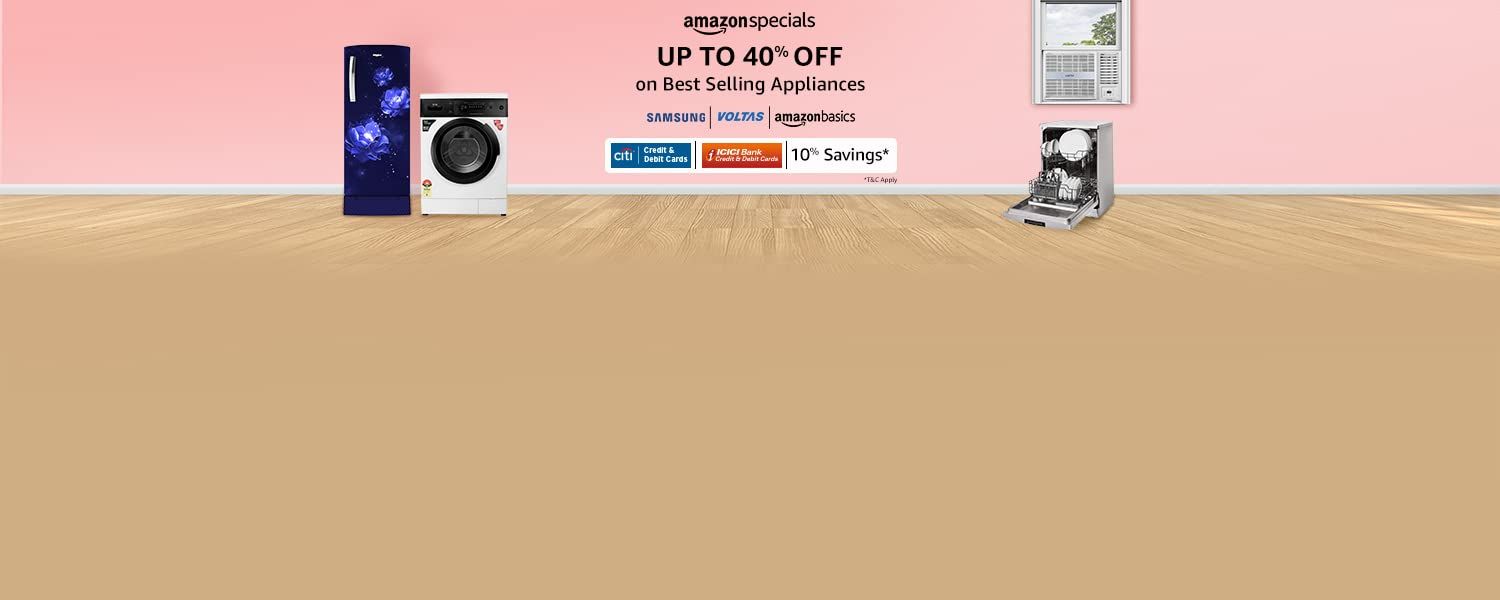
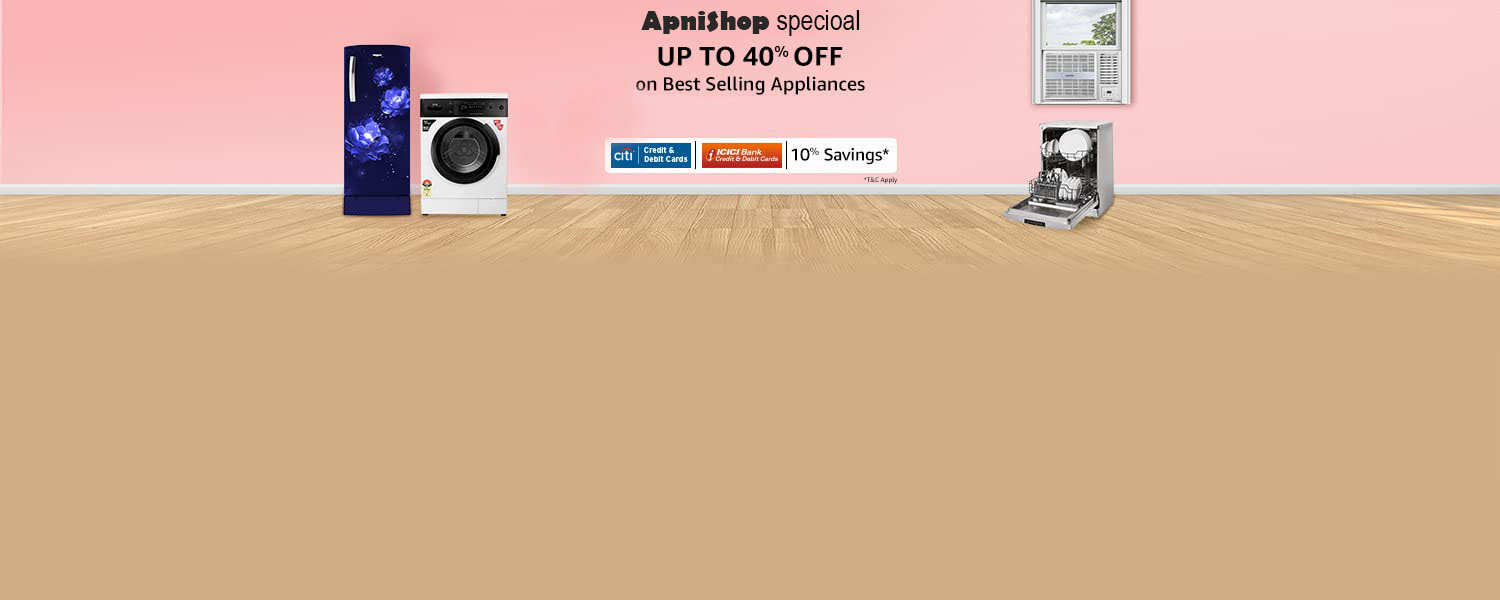
changed amazon to apnishop

Changed region(s): [[0.4293, 0.0, 0.5827, 0.06], [0.4293, 0.18, 0.5827, 0.21], [0.3987, 0.21, 0.4293, 0.27]]

diff --git a/public/js/bundle5.js b/public/js/bundle5.js
@@ -1,1 +1,1 @@
-(()=>{var e={9669:(e,t,r)=>{e.exports=r(1609)},5448:(e,t,r)=>{"use strict";var n=r(4867),o=r(6026),s=r(4372),i=r(5327),a=r(4097),c=r(4109),u=r(7985),f=r(5061);e.exports=function(e){return new Promise((function(t,r){var p=e.data,d=e.headers;n.isFormData(p)&&delete d["Content-Type"];var l=new XMLHttpRequest;if(e.auth){var h=e.auth.username||"",m=e.auth.password?unescape(encodeURIComponent(e.auth.password)):"";d.Authorization="Basic "+btoa(h+":"+m)}var v=a(e.baseURL,e.url);if(l.open(e.method.toUpperCase(),i(v,e.params,e.paramsSerializer),!0),l.timeout=e.timeout,l.onreadystatechange=function(){if(l&&4===l.readyState&&(0!==l.status||l.responseURL&&0===l.responseURL.indexOf("file:"))){var n="getAllResponseHeaders"in l?c(l.getAllResponseHeaders()):null,s={data:e.responseType&&"text"!==e.responseType?l.response:l.responseText,status:l.status,statusText:l.statusText,headers:n,config:e,request:l};o(t,r,s),l=null}},l.onabort=function(){l&&(r(f("Request aborted",e,"ECONNABORTED",l)),l=null)},l.onerror=function(){r(f("Network Error",e,null,l)),l=null},l.ontimeout=function(){var t="timeout of "+e.timeout+"ms exceeded";e.timeoutErrorMessage&&(t=e.timeoutErrorMessage),r(f(t,e,"ECONNABORTED",l)),l=null},n.isStandardBrowserEnv()){var y=(e.withCredentials||u(v))&&e.xsrfCookieName?s.read(e.xsrfCookieName):void 0;y&&(d[e.xsrfHeaderName]=y)}if("setRequestHeader"in l&&n.forEach(d,(function(e,t){void 0===p&&"content-type"===t.toLowerCase()?delete d[t]:l.setRequestHeader(t,e)})),n.isUndefined(e.withCredentials)||(l.withCredentials=!!e.withCredentials),e.responseType)try{l.responseType=e.responseType}catch(t){if("json"!==e.responseType)throw t}"function"==typeof e.onDownloadProgress&&l.addEventListener("progress",e.onDownloadProgress),"function"==typeof e.onUploadProgress&&l.upload&&l.upload.addEventListener("progress",e.onUploadProgress),e.cancelToken&&e.cancelToken.promise.then((function(e){l&&(l.abort(),r(e),l=null)})),p||(p=null),l.send(p)}))}},1609:(e,t,r)=>{"use strict";var n=r(4867),o=r(1849),s=r(321),i=r(7185);function a(e){var t=new s(e),r=o(s.prototype.request,t);return n.extend(r,s.prototype,t),n.extend(r,t),r}var c=a(r(5655));c.Axios=s,c.create=function(e){return a(i(c.defaults,e))},c.Cancel=r(5263),c.CancelToken=r(4972),c.isCancel=r(6502),c.all=function(e){return Promise.all(e)},c.spread=r(8713),c.isAxiosError=r(6268),e.exports=c,e.exports.default=c},5263:e=>{"use strict";function t(e){this.message=e}t.prototype.toString=function(){return"Cancel"+(this.message?": "+this.message:"")},t.prototype.__CANCEL__=!0,e.exports=t},4972:(e,t,r)=>{"use strict";var n=r(5263);function o(e){if("function"!=typeof e)throw new TypeError("executor must be a function.");var t;this.promise=new Promise((function(e){t=e}));var r=this;e((function(e){r.reason||(r.reason=new n(e),t(r.reason))}))}o.prototype.throwIfRequested=function(){if(this.reason)throw this.reason},o.source=function(){var e;return{token:new o((function(t){e=t})),cancel:e}},e.exports=o},6502:e=>{"use strict";e.exports=function(e){return!(!e||!e.__CANCEL__)}},321:(e,t,r)=>{"use strict";var n=r(4867),o=r(5327),s=r(782),i=r(3572),a=r(7185);function c(e){this.defaults=e,this.interceptors={request:new s,response:new s}}c.prototype.request=function(e){"string"==typeof e?(e=arguments[1]||{}).url=arguments[0]:e=e||{},(e=a(this.defaults,e)).method?e.method=e.method.toLowerCase():this.defaults.method?e.method=this.defaults.method.toLowerCase():e.method="get";var t=[i,void 0],r=Promise.resolve(e);for(this.interceptors.request.forEach((function(e){t.unshift(e.fulfilled,e.rejected)})),this.interceptors.response.forEach((function(e){t.push(e.fulfilled,e.rejected)}));t.length;)r=r.then(t.shift(),t.shift());return r},c.prototype.getUri=function(e){return e=a(this.defaults,e),o(e.url,e.params,e.paramsSerializer).replace(/^\?/,"")},n.forEach(["delete","get","head","options"],(function(e){c.prototype[e]=function(t,r){return this.request(a(r||{},{method:e,url:t,data:(r||{}).data}))}})),n.forEach(["post","put","patch"],(function(e){c.prototype[e]=function(t,r,n){return this.request(a(n||{},{method:e,url:t,data:r}))}})),e.exports=c},782:(e,t,r)=>{"use strict";var n=r(4867);function o(){this.handlers=[]}o.prototype.use=function(e,t){return this.handlers.push({fulfilled:e,rejected:t}),this.handlers.length-1},o.prototype.eject=function(e){this.handlers[e]&&(this.handlers[e]=null)},o.prototype.forEach=function(e){n.forEach(this.handlers,(function(t){null!==t&&e(t)}))},e.exports=o},4097:(e,t,r)=>{"use strict";var n=r(1793),o=r(7303);e.exports=function(e,t){return e&&!n(t)?o(e,t):t}},5061:(e,t,r)=>{"use strict";var n=r(481);e.exports=function(e,t,r,o,s){var i=new Error(e);return n(i,t,r,o,s)}},3572:(e,t,r)=>{"use strict";var n=r(4867),o=r(8527),s=r(6502),i=r(5655);function a(e){e.cancelToken&&e.cancelToken.throwIfRequested()}e.exports=function(e){return a(e),e.headers=e.headers||{},e.data=o(e.data,e.headers,e.transformRequest),e.headers=n.merge(e.headers.common||{},e.headers[e.method]||{},e.headers),n.forEach(["delete","get","head","post","put","patch","common"],(function(t){delete e.headers[t]})),(e.adapter||i.adapter)(e).then((function(t){return a(e),t.data=o(t.data,t.headers,e.transformResponse),t}),(function(t){return s(t)||(a(e),t&&t.response&&(t.response.data=o(t.response.data,t.response.headers,e.transformResponse))),Promise.reject(t)}))}},481:e=>{"use strict";e.exports=function(e,t,r,n,o){return e.config=t,r&&(e.code=r),e.request=n,e.response=o,e.isAxiosError=!0,e.toJSON=function(){return{message:this.message,name:this.name,description:this.description,number:this.number,fileName:this.fileName,lineNumber:this.lineNumber,columnNumber:this.columnNumber,stack:this.stack,config:this.config,code:this.code}},e}},7185:(e,t,r)=>{"use strict";var n=r(4867);e.exports=function(e,t){t=t||{};var r={},o=["url","method","data"],s=["headers","auth","proxy","params"],i=["baseURL","transformRequest","transformResponse","paramsSerializer","timeout","timeoutMessage","withCredentials","adapter","responseType","xsrfCookieName","xsrfHeaderName","onUploadProgress","onDownloadProgress","decompress","maxContentLength","maxBodyLength","maxRedirects","transport","httpAgent","httpsAgent","cancelToken","socketPath","responseEncoding"],a=["validateStatus"];function c(e,t){return n.isPlainObject(e)&&n.isPlainObject(t)?n.merge(e,t):n.isPlainObject(t)?n.merge({},t):n.isArray(t)?t.slice():t}function u(o){n.isUndefined(t[o])?n.isUndefined(e[o])||(r[o]=c(void 0,e[o])):r[o]=c(e[o],t[o])}n.forEach(o,(function(e){n.isUndefined(t[e])||(r[e]=c(void 0,t[e]))})),n.forEach(s,u),n.forEach(i,(function(o){n.isUndefined(t[o])?n.isUndefined(e[o])||(r[o]=c(void 0,e[o])):r[o]=c(void 0,t[o])})),n.forEach(a,(function(n){n in t?r[n]=c(e[n],t[n]):n in e&&(r[n]=c(void 0,e[n]))}));var f=o.concat(s).concat(i).concat(a),p=Object.keys(e).concat(Object.keys(t)).filter((function(e){return-1===f.indexOf(e)}));return n.forEach(p,u),r}},6026:(e,t,r)=>{"use strict";var n=r(5061);e.exports=function(e,t,r){var o=r.config.validateStatus;r.status&&o&&!o(r.status)?t(n("Request failed with status code "+r.status,r.config,null,r.request,r)):e(r)}},8527:(e,t,r)=>{"use strict";var n=r(4867);e.exports=function(e,t,r){return n.forEach(r,(function(r){e=r(e,t)})),e}},5655:(e,t,r)=>{"use strict";var n=r(4867),o=r(6016),s={"Content-Type":"application/x-www-form-urlencoded"};function i(e,t){!n.isUndefined(e)&&n.isUndefined(e["Content-Type"])&&(e["Content-Type"]=t)}var a,c={adapter:(("undefined"!=typeof XMLHttpRequest||"undefined"!=typeof process&&"[object process]"===Object.prototype.toString.call(process))&&(a=r(5448)),a),transformRequest:[function(e,t){return o(t,"Accept"),o(t,"Content-Type"),n.isFormData(e)||n.isArrayBuffer(e)||n.isBuffer(e)||n.isStream(e)||n.isFile(e)||n.isBlob(e)?e:n.isArrayBufferView(e)?e.buffer:n.isURLSearchParams(e)?(i(t,"application/x-www-form-urlencoded;charset=utf-8"),e.toString()):n.isObject(e)?(i(t,"application/json;charset=utf-8"),JSON.stringify(e)):e}],transformResponse:[function(e){if("string"==typeof e)try{e=JSON.parse(e)}catch(e){}return e}],timeout:0,xsrfCookieName:"XSRF-TOKEN",xsrfHeaderName:"X-XSRF-TOKEN",maxContentLength:-1,maxBodyLength:-1,validateStatus:function(e){return e>=200&&e<300},headers:{common:{Accept:"application/json, text/plain, */*"}}};n.forEach(["delete","get","head"],(function(e){c.headers[e]={}})),n.forEach(["post","put","patch"],(function(e){c.headers[e]=n.merge(s)})),e.exports=c},1849:e=>{"use strict";e.exports=function(e,t){return function(){for(var r=new Array(arguments.length),n=0;n<r.length;n++)r[n]=arguments[n];return e.apply(t,r)}}},5327:(e,t,r)=>{"use strict";var n=r(4867);function o(e){return encodeURIComponent(e).replace(/%3A/gi,":").replace(/%24/g,"$").replace(/%2C/gi,",").replace(/%20/g,"+").replace(/%5B/gi,"[").replace(/%5D/gi,"]")}e.exports=function(e,t,r){if(!t)return e;var s;if(r)s=r(t);else if(n.isURLSearchParams(t))s=t.toString();else{var i=[];n.forEach(t,(function(e,t){null!=e&&(n.isArray(e)?t+="[]":e=[e],n.forEach(e,(function(e){n.isDate(e)?e=e.toISOString():n.isObject(e)&&(e=JSON.stringify(e)),i.push(o(t)+"="+o(e))})))})),s=i.join("&")}if(s){var a=e.indexOf("#");-1!==a&&(e=e.slice(0,a)),e+=(-1===e.indexOf("?")?"?":"&")+s}return e}},7303:e=>{"use strict";e.exports=function(e,t){return t?e.replace(/\/+$/,"")+"/"+t.replace(/^\/+/,""):e}},4372:(e,t,r)=>{"use strict";var n=r(4867);e.exports=n.isStandardBrowserEnv()?{write:function(e,t,r,o,s,i){var a=[];a.push(e+"="+encodeURIComponent(t)),n.isNumber(r)&&a.push("expires="+new Date(r).toGMTString()),n.isString(o)&&a.push("path="+o),n.isString(s)&&a.push("domain="+s),!0===i&&a.push("secure"),document.cookie=a.join("; ")},read:function(e){var t=document.cookie.match(new RegExp("(^|;\\s*)("+e+")=([^;]*)"));return t?decodeURIComponent(t[3]):null},remove:function(e){this.write(e,"",Date.now()-864e5)}}:{write:function(){},read:function(){return null},remove:function(){}}},1793:e=>{"use strict";e.exports=function(e){return/^([a-z][a-z\d\+\-\.]*:)?\/\//i.test(e)}},6268:e=>{"use strict";e.exports=function(e){return"object"==typeof e&&!0===e.isAxiosError}},7985:(e,t,r)=>{"use strict";var n=r(4867);e.exports=n.isStandardBrowserEnv()?function(){var e,t=/(msie|trident)/i.test(navigator.userAgent),r=document.createElement("a");function o(e){var n=e;return t&&(r.setAttribute("href",n),n=r.href),r.setAttribute("href",n),{href:r.href,protocol:r.protocol?r.protocol.replace(/:$/,""):"",host:r.host,search:r.search?r.search.replace(/^\?/,""):"",hash:r.hash?r.hash.replace(/^#/,""):"",hostname:r.hostname,port:r.port,pathname:"/"===r.pathname.charAt(0)?r.pathname:"/"+r.pathname}}return e=o(window.location.href),function(t){var r=n.isString(t)?o(t):t;return r.protocol===e.protocol&&r.host===e.host}}():function(){return!0}},6016:(e,t,r)=>{"use strict";var n=r(4867);e.exports=function(e,t){n.forEach(e,(function(r,n){n!==t&&n.toUpperCase()===t.toUpperCase()&&(e[t]=r,delete e[n])}))}},4109:(e,t,r)=>{"use strict";var n=r(4867),o=["age","authorization","content-length","content-type","etag","expires","from","host","if-modified-since","if-unmodified-since","last-modified","location","max-forwards","proxy-authorization","referer","retry-after","user-agent"];e.exports=function(e){var t,r,s,i={};return e?(n.forEach(e.split("\n"),(function(e){if(s=e.indexOf(":"),t=n.trim(e.substr(0,s)).toLowerCase(),r=n.trim(e.substr(s+1)),t){if(i[t]&&o.indexOf(t)>=0)return;i[t]="set-cookie"===t?(i[t]?i[t]:[]).concat([r]):i[t]?i[t]+", "+r:r}})),i):i}},8713:e=>{"use strict";e.exports=function(e){return function(t){return e.apply(null,t)}}},4867:(e,t,r)=>{"use strict";var n=r(1849),o=Object.prototype.toString;function s(e){return"[object Array]"===o.call(e)}function i(e){return void 0===e}function a(e){return null!==e&&"object"==typeof e}function c(e){if("[object Object]"!==o.call(e))return!1;var t=Object.getPrototypeOf(e);return null===t||t===Object.prototype}function u(e){return"[object Function]"===o.call(e)}function f(e,t){if(null!=e)if("object"!=typeof e&&(e=[e]),s(e))for(var r=0,n=e.length;r<n;r++)t.call(null,e[r],r,e);else for(var o in e)Object.prototype.hasOwnProperty.call(e,o)&&t.call(null,e[o],o,e)}e.exports={isArray:s,isArrayBuffer:function(e){return"[object ArrayBuffer]"===o.call(e)},isBuffer:function(e){return null!==e&&!i(e)&&null!==e.constructor&&!i(e.constructor)&&"function"==typeof e.constructor.isBuffer&&e.constructor.isBuffer(e)},isFormData:function(e){return"undefined"!=typeof FormData&&e instanceof FormData},isArrayBufferView:function(e){return"undefined"!=typeof ArrayBuffer&&ArrayBuffer.isView?ArrayBuffer.isView(e):e&&e.buffer&&e.buffer instanceof ArrayBuffer},isString:function(e){return"string"==typeof e},isNumber:function(e){return"number"==typeof e},isObject:a,isPlainObject:c,isUndefined:i,isDate:function(e){return"[object Date]"===o.call(e)},isFile:function(e){return"[object File]"===o.call(e)},isBlob:function(e){return"[object Blob]"===o.call(e)},isFunction:u,isStream:function(e){return a(e)&&u(e.pipe)},isURLSearchParams:function(e){return"undefined"!=typeof URLSearchParams&&e instanceof URLSearchParams},isStandardBrowserEnv:function(){return("undefined"==typeof navigator||"ReactNative"!==navigator.product&&"NativeScript"!==navigator.product&&"NS"!==navigator.product)&&"undefined"!=typeof window&&"undefined"!=typeof document},forEach:f,merge:function e(){var t={};function r(r,n){c(t[n])&&c(r)?t[n]=e(t[n],r):c(r)?t[n]=e({},r):s(r)?t[n]=r.slice():t[n]=r}for(var n=0,o=arguments.length;n<o;n++)f(arguments[n],r);return t},extend:function(e,t,r){return f(t,(function(t,o){e[o]=r&&"function"==typeof t?n(t,r):t})),e},trim:function(e){return e.replace(/^\s*/,"").replace(/\s*$/,"")},stripBOM:function(e){return 65279===e.charCodeAt(0)&&(e=e.slice(1)),e}}}},t={};function r(n){var o=t[n];if(void 0!==o)return o.exports;var s=t[n]={exports:{}};return e[n](s,s.exports,r),s.exports}r.n=e=>{var t=e&&e.__esModule?()=>e.default:()=>e;return r.d(t,{a:t}),t},r.d=(e,t)=>{for(var n in t)r.o(t,n)&&!r.o(e,n)&&Object.defineProperty(e,n,{enumerable:!0,get:t[n]})},r.o=(e,t)=>Object.prototype.hasOwnProperty.call(e,t),(()=>{"use strict";var e=r(9669),t=r.n(e);function n(e,t,r,n,o,s,i){try{var a=e[s](i),c=a.value}catch(e){return void r(e)}a.done?t(c):Promise.resolve(c).then(n,o)}Stripe("pk_test_51JCPtpSIbz25nq7sqfMMLWNCwThcbZM0VT1Ymd0yI1j7oe1pQGdihBMhiaxBLCN6P3Hk33XA7YjboCP2YESYDWSB00qLX0DerY");var o=t().create({baseURL:"/api/v1",headers:{Authorization:"Bearer ".concat(function(e){for(var t="jwt=",r=document.cookie.split(";"),n=0;n<r.length;n++){for(var o=r[n];" "==o.charAt(0);)o=o.substring(1,o.length);if(0==o.indexOf(t))return o.substring(t.length,o.length)}return null}())}}),s=function(){var e,t=(e=regeneratorRuntime.mark((function e(t,r){var n,s,i,a,c,u;return regeneratorRuntime.wrap((function(e){for(;;)switch(e.prev=e.next){case 0:return n=document.querySelector(".loader"),s=document.querySelector("#countItem"),e.prev=2,n.style.display="block",e.next=6,o({method:"POST",url:"/cart",data:{product:[{item:r,qty:t}]}});case 6:if(i=e.sent,document.querySelector(".error").style.display="none",n.style.display="none",console.log(i),"success"==i.data.status){if(a=0,void 0!==i.data.cart)for(c=0;c<i.data.cart.product.length;c++)a+=i.data.cart.product[c].qty;console.log("".concat(a,"👍")),s.textContent=a}e.next=21;break;case 13:e.prev=13,e.t0=e.catch(2),n.style.display="none",u=e.t0.response.data.message,"jwt malformed"==e.t0.response.data.message&&(u="Please Sign in to buy the item"),document.querySelector(".error").style.display="block",document.querySelector(".error-right p").textContent=u,console.log(e.t0.response.data.message);case 21:case"end":return e.stop()}}),e,null,[[2,13]])})),function(){var t=this,r=arguments;return new Promise((function(o,s){var i=e.apply(t,r);function a(e){n(i,o,s,a,c,"next",e)}function c(e){n(i,o,s,a,c,"throw",e)}a(void 0)}))});return function(e,r){return t.apply(this,arguments)}}(),i=(Stripe("pk_test_51JCPtpSIbz25nq7sqfMMLWNCwThcbZM0VT1Ymd0yI1j7oe1pQGdihBMhiaxBLCN6P3Hk33XA7YjboCP2YESYDWSB00qLX0DerY"),document.querySelector("#allReviews")),a=document.querySelector("#writeReview");i&&i.addEventListener("click",(function(){window.location.href="/reviews/".concat(i.dataset.id)})),a&&a.addEventListener("click",(function(){window.location.href="/addReview/".concat(a.dataset.id)}));var c=document.querySelector(".cart1"),u=document.querySelector("#qty");c&&c.addEventListener("click",(function(){var e=u.value,t=c.dataset.id;s(e,t)}))})()})();
+(()=>{var e={9669:(e,t,r)=>{e.exports=r(1609)},5448:(e,t,r)=>{"use strict";var n=r(4867),o=r(6026),s=r(4372),a=r(5327),i=r(4097),c=r(4109),u=r(7985),f=r(5061);e.exports=function(e){return new Promise((function(t,r){var p=e.data,d=e.headers;n.isFormData(p)&&delete d["Content-Type"];var l=new XMLHttpRequest;if(e.auth){var h=e.auth.username||"",m=e.auth.password?unescape(encodeURIComponent(e.auth.password)):"";d.Authorization="Basic "+btoa(h+":"+m)}var v=i(e.baseURL,e.url);if(l.open(e.method.toUpperCase(),a(v,e.params,e.paramsSerializer),!0),l.timeout=e.timeout,l.onreadystatechange=function(){if(l&&4===l.readyState&&(0!==l.status||l.responseURL&&0===l.responseURL.indexOf("file:"))){var n="getAllResponseHeaders"in l?c(l.getAllResponseHeaders()):null,s={data:e.responseType&&"text"!==e.responseType?l.response:l.responseText,status:l.status,statusText:l.statusText,headers:n,config:e,request:l};o(t,r,s),l=null}},l.onabort=function(){l&&(r(f("Request aborted",e,"ECONNABORTED",l)),l=null)},l.onerror=function(){r(f("Network Error",e,null,l)),l=null},l.ontimeout=function(){var t="timeout of "+e.timeout+"ms exceeded";e.timeoutErrorMessage&&(t=e.timeoutErrorMessage),r(f(t,e,"ECONNABORTED",l)),l=null},n.isStandardBrowserEnv()){var y=(e.withCredentials||u(v))&&e.xsrfCookieName?s.read(e.xsrfCookieName):void 0;y&&(d[e.xsrfHeaderName]=y)}if("setRequestHeader"in l&&n.forEach(d,(function(e,t){void 0===p&&"content-type"===t.toLowerCase()?delete d[t]:l.setRequestHeader(t,e)})),n.isUndefined(e.withCredentials)||(l.withCredentials=!!e.withCredentials),e.responseType)try{l.responseType=e.responseType}catch(t){if("json"!==e.responseType)throw t}"function"==typeof e.onDownloadProgress&&l.addEventListener("progress",e.onDownloadProgress),"function"==typeof e.onUploadProgress&&l.upload&&l.upload.addEventListener("progress",e.onUploadProgress),e.cancelToken&&e.cancelToken.promise.then((function(e){l&&(l.abort(),r(e),l=null)})),p||(p=null),l.send(p)}))}},1609:(e,t,r)=>{"use strict";var n=r(4867),o=r(1849),s=r(321),a=r(7185);function i(e){var t=new s(e),r=o(s.prototype.request,t);return n.extend(r,s.prototype,t),n.extend(r,t),r}var c=i(r(5655));c.Axios=s,c.create=function(e){return i(a(c.defaults,e))},c.Cancel=r(5263),c.CancelToken=r(4972),c.isCancel=r(6502),c.all=function(e){return Promise.all(e)},c.spread=r(8713),c.isAxiosError=r(6268),e.exports=c,e.exports.default=c},5263:e=>{"use strict";function t(e){this.message=e}t.prototype.toString=function(){return"Cancel"+(this.message?": "+this.message:"")},t.prototype.__CANCEL__=!0,e.exports=t},4972:(e,t,r)=>{"use strict";var n=r(5263);function o(e){if("function"!=typeof e)throw new TypeError("executor must be a function.");var t;this.promise=new Promise((function(e){t=e}));var r=this;e((function(e){r.reason||(r.reason=new n(e),t(r.reason))}))}o.prototype.throwIfRequested=function(){if(this.reason)throw this.reason},o.source=function(){var e;return{token:new o((function(t){e=t})),cancel:e}},e.exports=o},6502:e=>{"use strict";e.exports=function(e){return!(!e||!e.__CANCEL__)}},321:(e,t,r)=>{"use strict";var n=r(4867),o=r(5327),s=r(782),a=r(3572),i=r(7185);function c(e){this.defaults=e,this.interceptors={request:new s,response:new s}}c.prototype.request=function(e){"string"==typeof e?(e=arguments[1]||{}).url=arguments[0]:e=e||{},(e=i(this.defaults,e)).method?e.method=e.method.toLowerCase():this.defaults.method?e.method=this.defaults.method.toLowerCase():e.method="get";var t=[a,void 0],r=Promise.resolve(e);for(this.interceptors.request.forEach((function(e){t.unshift(e.fulfilled,e.rejected)})),this.interceptors.response.forEach((function(e){t.push(e.fulfilled,e.rejected)}));t.length;)r=r.then(t.shift(),t.shift());return r},c.prototype.getUri=function(e){return e=i(this.defaults,e),o(e.url,e.params,e.paramsSerializer).replace(/^\?/,"")},n.forEach(["delete","get","head","options"],(function(e){c.prototype[e]=function(t,r){return this.request(i(r||{},{method:e,url:t,data:(r||{}).data}))}})),n.forEach(["post","put","patch"],(function(e){c.prototype[e]=function(t,r,n){return this.request(i(n||{},{method:e,url:t,data:r}))}})),e.exports=c},782:(e,t,r)=>{"use strict";var n=r(4867);function o(){this.handlers=[]}o.prototype.use=function(e,t){return this.handlers.push({fulfilled:e,rejected:t}),this.handlers.length-1},o.prototype.eject=function(e){this.handlers[e]&&(this.handlers[e]=null)},o.prototype.forEach=function(e){n.forEach(this.handlers,(function(t){null!==t&&e(t)}))},e.exports=o},4097:(e,t,r)=>{"use strict";var n=r(1793),o=r(7303);e.exports=function(e,t){return e&&!n(t)?o(e,t):t}},5061:(e,t,r)=>{"use strict";var n=r(481);e.exports=function(e,t,r,o,s){var a=new Error(e);return n(a,t,r,o,s)}},3572:(e,t,r)=>{"use strict";var n=r(4867),o=r(8527),s=r(6502),a=r(5655);function i(e){e.cancelToken&&e.cancelToken.throwIfRequested()}e.exports=function(e){return i(e),e.headers=e.headers||{},e.data=o(e.data,e.headers,e.transformRequest),e.headers=n.merge(e.headers.common||{},e.headers[e.method]||{},e.headers),n.forEach(["delete","get","head","post","put","patch","common"],(function(t){delete e.headers[t]})),(e.adapter||a.adapter)(e).then((function(t){return i(e),t.data=o(t.data,t.headers,e.transformResponse),t}),(function(t){return s(t)||(i(e),t&&t.response&&(t.response.data=o(t.response.data,t.response.headers,e.transformResponse))),Promise.reject(t)}))}},481:e=>{"use strict";e.exports=function(e,t,r,n,o){return e.config=t,r&&(e.code=r),e.request=n,e.response=o,e.isAxiosError=!0,e.toJSON=function(){return{message:this.message,name:this.name,description:this.description,number:this.number,fileName:this.fileName,lineNumber:this.lineNumber,columnNumber:this.columnNumber,stack:this.stack,config:this.config,code:this.code}},e}},7185:(e,t,r)=>{"use strict";var n=r(4867);e.exports=function(e,t){t=t||{};var r={},o=["url","method","data"],s=["headers","auth","proxy","params"],a=["baseURL","transformRequest","transformResponse","paramsSerializer","timeout","timeoutMessage","withCredentials","adapter","responseType","xsrfCookieName","xsrfHeaderName","onUploadProgress","onDownloadProgress","decompress","maxContentLength","maxBodyLength","maxRedirects","transport","httpAgent","httpsAgent","cancelToken","socketPath","responseEncoding"],i=["validateStatus"];function c(e,t){return n.isPlainObject(e)&&n.isPlainObject(t)?n.merge(e,t):n.isPlainObject(t)?n.merge({},t):n.isArray(t)?t.slice():t}function u(o){n.isUndefined(t[o])?n.isUndefined(e[o])||(r[o]=c(void 0,e[o])):r[o]=c(e[o],t[o])}n.forEach(o,(function(e){n.isUndefined(t[e])||(r[e]=c(void 0,t[e]))})),n.forEach(s,u),n.forEach(a,(function(o){n.isUndefined(t[o])?n.isUndefined(e[o])||(r[o]=c(void 0,e[o])):r[o]=c(void 0,t[o])})),n.forEach(i,(function(n){n in t?r[n]=c(e[n],t[n]):n in e&&(r[n]=c(void 0,e[n]))}));var f=o.concat(s).concat(a).concat(i),p=Object.keys(e).concat(Object.keys(t)).filter((function(e){return-1===f.indexOf(e)}));return n.forEach(p,u),r}},6026:(e,t,r)=>{"use strict";var n=r(5061);e.exports=function(e,t,r){var o=r.config.validateStatus;r.status&&o&&!o(r.status)?t(n("Request failed with status code "+r.status,r.config,null,r.request,r)):e(r)}},8527:(e,t,r)=>{"use strict";var n=r(4867);e.exports=function(e,t,r){return n.forEach(r,(function(r){e=r(e,t)})),e}},5655:(e,t,r)=>{"use strict";var n=r(4867),o=r(6016),s={"Content-Type":"application/x-www-form-urlencoded"};function a(e,t){!n.isUndefined(e)&&n.isUndefined(e["Content-Type"])&&(e["Content-Type"]=t)}var i,c={adapter:(("undefined"!=typeof XMLHttpRequest||"undefined"!=typeof process&&"[object process]"===Object.prototype.toString.call(process))&&(i=r(5448)),i),transformRequest:[function(e,t){return o(t,"Accept"),o(t,"Content-Type"),n.isFormData(e)||n.isArrayBuffer(e)||n.isBuffer(e)||n.isStream(e)||n.isFile(e)||n.isBlob(e)?e:n.isArrayBufferView(e)?e.buffer:n.isURLSearchParams(e)?(a(t,"application/x-www-form-urlencoded;charset=utf-8"),e.toString()):n.isObject(e)?(a(t,"application/json;charset=utf-8"),JSON.stringify(e)):e}],transformResponse:[function(e){if("string"==typeof e)try{e=JSON.parse(e)}catch(e){}return e}],timeout:0,xsrfCookieName:"XSRF-TOKEN",xsrfHeaderName:"X-XSRF-TOKEN",maxContentLength:-1,maxBodyLength:-1,validateStatus:function(e){return e>=200&&e<300},headers:{common:{Accept:"application/json, text/plain, */*"}}};n.forEach(["delete","get","head"],(function(e){c.headers[e]={}})),n.forEach(["post","put","patch"],(function(e){c.headers[e]=n.merge(s)})),e.exports=c},1849:e=>{"use strict";e.exports=function(e,t){return function(){for(var r=new Array(arguments.length),n=0;n<r.length;n++)r[n]=arguments[n];return e.apply(t,r)}}},5327:(e,t,r)=>{"use strict";var n=r(4867);function o(e){return encodeURIComponent(e).replace(/%3A/gi,":").replace(/%24/g,"$").replace(/%2C/gi,",").replace(/%20/g,"+").replace(/%5B/gi,"[").replace(/%5D/gi,"]")}e.exports=function(e,t,r){if(!t)return e;var s;if(r)s=r(t);else if(n.isURLSearchParams(t))s=t.toString();else{var a=[];n.forEach(t,(function(e,t){null!=e&&(n.isArray(e)?t+="[]":e=[e],n.forEach(e,(function(e){n.isDate(e)?e=e.toISOString():n.isObject(e)&&(e=JSON.stringify(e)),a.push(o(t)+"="+o(e))})))})),s=a.join("&")}if(s){var i=e.indexOf("#");-1!==i&&(e=e.slice(0,i)),e+=(-1===e.indexOf("?")?"?":"&")+s}return e}},7303:e=>{"use strict";e.exports=function(e,t){return t?e.replace(/\/+$/,"")+"/"+t.replace(/^\/+/,""):e}},4372:(e,t,r)=>{"use strict";var n=r(4867);e.exports=n.isStandardBrowserEnv()?{write:function(e,t,r,o,s,a){var i=[];i.push(e+"="+encodeURIComponent(t)),n.isNumber(r)&&i.push("expires="+new Date(r).toGMTString()),n.isString(o)&&i.push("path="+o),n.isString(s)&&i.push("domain="+s),!0===a&&i.push("secure"),document.cookie=i.join("; ")},read:function(e){var t=document.cookie.match(new RegExp("(^|;\\s*)("+e+")=([^;]*)"));return t?decodeURIComponent(t[3]):null},remove:function(e){this.write(e,"",Date.now()-864e5)}}:{write:function(){},read:function(){return null},remove:function(){}}},1793:e=>{"use strict";e.exports=function(e){return/^([a-z][a-z\d\+\-\.]*:)?\/\//i.test(e)}},6268:e=>{"use strict";e.exports=function(e){return"object"==typeof e&&!0===e.isAxiosError}},7985:(e,t,r)=>{"use strict";var n=r(4867);e.exports=n.isStandardBrowserEnv()?function(){var e,t=/(msie|trident)/i.test(navigator.userAgent),r=document.createElement("a");function o(e){var n=e;return t&&(r.setAttribute("href",n),n=r.href),r.setAttribute("href",n),{href:r.href,protocol:r.protocol?r.protocol.replace(/:$/,""):"",host:r.host,search:r.search?r.search.replace(/^\?/,""):"",hash:r.hash?r.hash.replace(/^#/,""):"",hostname:r.hostname,port:r.port,pathname:"/"===r.pathname.charAt(0)?r.pathname:"/"+r.pathname}}return e=o(window.location.href),function(t){var r=n.isString(t)?o(t):t;return r.protocol===e.protocol&&r.host===e.host}}():function(){return!0}},6016:(e,t,r)=>{"use strict";var n=r(4867);e.exports=function(e,t){n.forEach(e,(function(r,n){n!==t&&n.toUpperCase()===t.toUpperCase()&&(e[t]=r,delete e[n])}))}},4109:(e,t,r)=>{"use strict";var n=r(4867),o=["age","authorization","content-length","content-type","etag","expires","from","host","if-modified-since","if-unmodified-since","last-modified","location","max-forwards","proxy-authorization","referer","retry-after","user-agent"];e.exports=function(e){var t,r,s,a={};return e?(n.forEach(e.split("\n"),(function(e){if(s=e.indexOf(":"),t=n.trim(e.substr(0,s)).toLowerCase(),r=n.trim(e.substr(s+1)),t){if(a[t]&&o.indexOf(t)>=0)return;a[t]="set-cookie"===t?(a[t]?a[t]:[]).concat([r]):a[t]?a[t]+", "+r:r}})),a):a}},8713:e=>{"use strict";e.exports=function(e){return function(t){return e.apply(null,t)}}},4867:(e,t,r)=>{"use strict";var n=r(1849),o=Object.prototype.toString;function s(e){return"[object Array]"===o.call(e)}function a(e){return void 0===e}function i(e){return null!==e&&"object"==typeof e}function c(e){if("[object Object]"!==o.call(e))return!1;var t=Object.getPrototypeOf(e);return null===t||t===Object.prototype}function u(e){return"[object Function]"===o.call(e)}function f(e,t){if(null!=e)if("object"!=typeof e&&(e=[e]),s(e))for(var r=0,n=e.length;r<n;r++)t.call(null,e[r],r,e);else for(var o in e)Object.prototype.hasOwnProperty.call(e,o)&&t.call(null,e[o],o,e)}e.exports={isArray:s,isArrayBuffer:function(e){return"[object ArrayBuffer]"===o.call(e)},isBuffer:function(e){return null!==e&&!a(e)&&null!==e.constructor&&!a(e.constructor)&&"function"==typeof e.constructor.isBuffer&&e.constructor.isBuffer(e)},isFormData:function(e){return"undefined"!=typeof FormData&&e instanceof FormData},isArrayBufferView:function(e){return"undefined"!=typeof ArrayBuffer&&ArrayBuffer.isView?ArrayBuffer.isView(e):e&&e.buffer&&e.buffer instanceof ArrayBuffer},isString:function(e){return"string"==typeof e},isNumber:function(e){return"number"==typeof e},isObject:i,isPlainObject:c,isUndefined:a,isDate:function(e){return"[object Date]"===o.call(e)},isFile:function(e){return"[object File]"===o.call(e)},isBlob:function(e){return"[object Blob]"===o.call(e)},isFunction:u,isStream:function(e){return i(e)&&u(e.pipe)},isURLSearchParams:function(e){return"undefined"!=typeof URLSearchParams&&e instanceof URLSearchParams},isStandardBrowserEnv:function(){return("undefined"==typeof navigator||"ReactNative"!==navigator.product&&"NativeScript"!==navigator.product&&"NS"!==navigator.product)&&"undefined"!=typeof window&&"undefined"!=typeof document},forEach:f,merge:function e(){var t={};function r(r,n){c(t[n])&&c(r)?t[n]=e(t[n],r):c(r)?t[n]=e({},r):s(r)?t[n]=r.slice():t[n]=r}for(var n=0,o=arguments.length;n<o;n++)f(arguments[n],r);return t},extend:function(e,t,r){return f(t,(function(t,o){e[o]=r&&"function"==typeof t?n(t,r):t})),e},trim:function(e){return e.replace(/^\s*/,"").replace(/\s*$/,"")},stripBOM:function(e){return 65279===e.charCodeAt(0)&&(e=e.slice(1)),e}}}},t={};function r(n){var o=t[n];if(void 0!==o)return o.exports;var s=t[n]={exports:{}};return e[n](s,s.exports,r),s.exports}r.n=e=>{var t=e&&e.__esModule?()=>e.default:()=>e;return r.d(t,{a:t}),t},r.d=(e,t)=>{for(var n in t)r.o(t,n)&&!r.o(e,n)&&Object.defineProperty(e,n,{enumerable:!0,get:t[n]})},r.o=(e,t)=>Object.prototype.hasOwnProperty.call(e,t),(()=>{"use strict";var e=r(9669),t=r.n(e);function n(e,t,r,n,o,s,a){try{var i=e[s](a),c=i.value}catch(e){return void r(e)}i.done?t(c):Promise.resolve(c).then(n,o)}Stripe("pk_test_51JCPtpSIbz25nq7sqfMMLWNCwThcbZM0VT1Ymd0yI1j7oe1pQGdihBMhiaxBLCN6P3Hk33XA7YjboCP2YESYDWSB00qLX0DerY");var o=t().create({baseURL:"/api/v1",headers:{Authorization:"Bearer ".concat(function(e){for(var t="jwt=",r=document.cookie.split(";"),n=0;n<r.length;n++){for(var o=r[n];" "==o.charAt(0);)o=o.substring(1,o.length);if(0==o.indexOf(t))return o.substring(t.length,o.length)}return null}())}}),s=function(){var e,t=(e=regeneratorRuntime.mark((function e(t,r){var n,s,a,i,c,u;return regeneratorRuntime.wrap((function(e){for(;;)switch(e.prev=e.next){case 0:return n=document.querySelector(".loader"),s=document.querySelector("#countItem"),e.prev=2,n.style.display="block",e.next=6,o({method:"POST",url:"/cart",data:{product:[{item:r,qty:t}]}});case 6:if(a=e.sent,document.querySelector(".error").style.display="none",n.style.display="none",console.log(a),"success"==a.data.status){if(i=0,void 0!==a.data.cart)for(c=0;c<a.data.cart.product.length;c++)i+=a.data.cart.product[c].qty;console.log("".concat(i,"👍")),s.textContent=i}e.next=21;break;case 13:e.prev=13,e.t0=e.catch(2),n.style.display="none",u=e.t0.response.data.message,"jwt malformed"!=e.t0.response.data.message&&"Invalid token!!"!=e.t0.response.data.message||(u="Please Sign in to buy the item"),document.querySelector(".error").style.display="block",document.querySelector(".error-right p").textContent=u,console.log(e.t0.response.data.message);case 21:case"end":return e.stop()}}),e,null,[[2,13]])})),function(){var t=this,r=arguments;return new Promise((function(o,s){var a=e.apply(t,r);function i(e){n(a,o,s,i,c,"next",e)}function c(e){n(a,o,s,i,c,"throw",e)}i(void 0)}))});return function(e,r){return t.apply(this,arguments)}}(),a=(Stripe("pk_test_51JCPtpSIbz25nq7sqfMMLWNCwThcbZM0VT1Ymd0yI1j7oe1pQGdihBMhiaxBLCN6P3Hk33XA7YjboCP2YESYDWSB00qLX0DerY"),document.querySelector("#allReviews")),i=document.querySelector("#writeReview");a&&a.addEventListener("click",(function(){window.location.href="/reviews/".concat(a.dataset.id)})),i&&i.addEventListener("click",(function(){window.location.href="/addReview/".concat(i.dataset.id)}));var c=document.querySelector(".cart1"),u=document.querySelector("#qty");c&&c.addEventListener("click",(function(){var e=u.value,t=c.dataset.id;s(e,t)}))})()})();

diff --git a/public/js/getToken.js b/public/js/getToken.js
@@ -197,7 +197,10 @@ export const addToCart1 = async (itemsQTY, ID) => {
   } catch (err) {
     loader.style.display = 'none';
     let error = err.response.data.message;
-    if (err.response.data.message == 'jwt malformed') {
+    if (
+      err.response.data.message == 'jwt malformed' ||
+      err.response.data.message == 'Invalid token!!'
+    ) {
       error = 'Please Sign in to buy the item';
     }
     document.querySelector('.error').style.display = 'block';

diff --git a/controllers/viewController.js b/controllers/viewController.js
@@ -65,7 +65,7 @@ exports.homePage = catchAsync(async (req, res, next) => {
   //Render The Page
 
   res.status(200).render('home', {
-    title: 'Amazon',
+    title: 'ApniShop',
     electronics,
     clothes,
     groceries,
